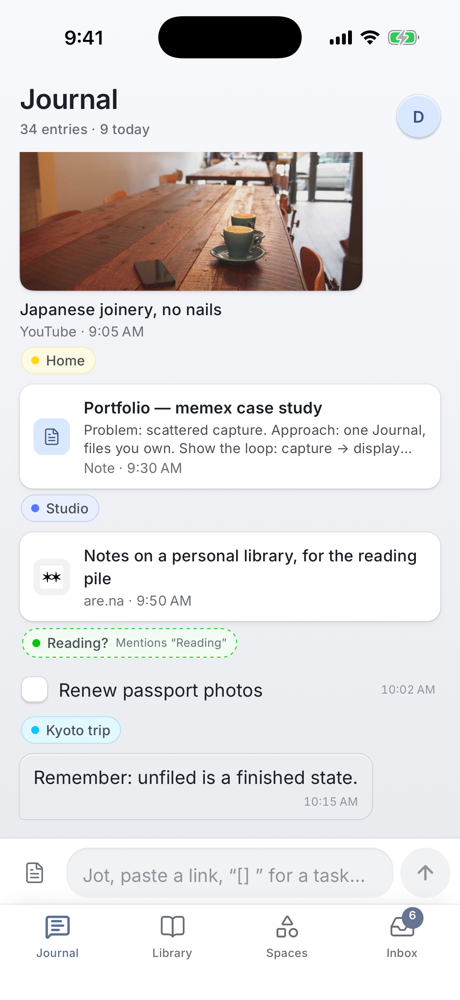
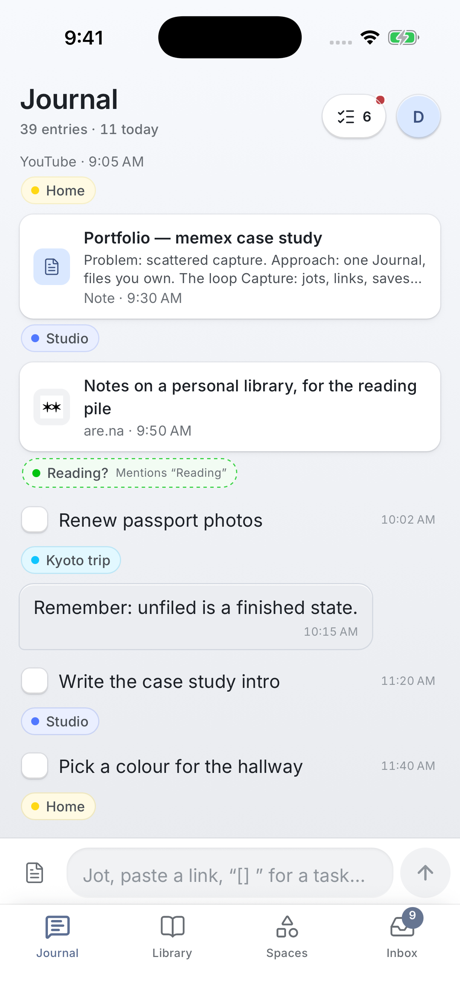
Docs: the phone's Spaces, Inbox, Tasks and note view (M6-C), screenshots
docs/mobile.md: what each new screen does, deep links, what's reused from
core, the new date picker dependency, known gaps; light and dark
screenshots on demo data. ROADMAP Phase 6, TODO, CLAUDE.md.

diff --git a/docs/mobile.md b/docs/mobile.md
@@ -2,12 +2,16 @@
 
 The native app lives in `apps/mobile`: React Native on **Expo SDK 58** with Expo Router. ROADMAP Phase 6, v1 on TestFlight. Following decision 20, it reads data straight from Supabase through `@memex/core`, using the same Repository and adapter as the web app. RLS limits every query to the signed-in user.
 
-**Status (2026-11-01, threads M6-A and M6-B):** the app shell has four tabs (Journal, Library, Spaces, Inbox) and a sign-in screen, with email + password and GitHub OAuth. Light and dark follow the system.
+**Status (2026-11-01, threads M6-A, M6-B and M6-C):** four tabs (Journal, Library, Spaces, Inbox) plus pushed screens for Tasks, a space's board, a note and a link, and a sign-in screen with email + password and GitHub OAuth. Light and dark follow the system. Next: the iOS share extension, then TestFlight.
 
 - **Journal** (M6-B): the feed plus a composer above the tab bar with the web's syntax, from core: plain text saves a jot, a lone URL saves a link, `[] ` starts a task, `@Space` files it, and the page button makes a note (phones have no ⌘↵). Saves appear at once and roll back if they fail. Tick tasks in place, tap a link for its detail, press a dashed suggestion chip to file an entry, long-press anything for its menu (Open, Mark done, File in…, Delete). Deleting and filing show a toast with Undo. Pull to refresh.
 - **Link detail** (M6-B): picture, title, description, source and date; spaces as toggles; Open in Safari (in-app browser), Share, Delete with Undo.
 - **Library** (M6-B): every saved link as a two-column masonry, newest saved first, with source chips, search and infinite scroll.
-- Spaces and Inbox are still placeholders that show real counts. The share extension, Spaces/Inbox and TestFlight come next.
+- **Spaces** (M6-C): every space in its own hue with how many items it holds, its open tasks, when something last landed there and its three newest entries; Tasks across all spaces sits on top. Pull to refresh.
+- **A space's board** (M6-C, decision 14B in phone form): the space's pinned sites, then its own Journal (jots written there and everything filed there, newest at the bottom), with the composer filing into the space unless the text names another `@Space`. The header's Tasks pill opens Tasks filtered to the space.
+- **Inbox** (M6-C): agents' proposals first (who, what, the item, the reason, and the change as a line diff or before → after; **Approve** applies it, **Reject** keeps the record), then filing suggestions (the item, the likely space with its reason, **File in …** and **Not now**, both with Undo). The tab's badge counts both, like the web's Inbox button.
+- **Tasks** (M6-C, `docs/tasks-view.md` on the phone): reached from the Tasks pill in the Journal's header (open count, red dot when something is overdue), the top of the Spaces tab and a space's header. Grouped by space or by due date, a space filter (Every space · each space · Unfiled, with open counts), an add field on the composer's syntax, tick with Undo (the row holds a beat checked, then moves to Done), due dates from the chip (Today, Tomorrow, Next week, Pick a date… with the system calendar, No due date), long-press for Mark done, Due date…, Rename…, Spaces… and Delete (with Undo), and a folded Done list, 50 at a time.
+- **Notes** (M6-C): tap a note in any feed. Its title, date, spaces and markdown rendered on paper (headings, lists, task boxes, quotes, code, links that open in Safari). **Edit** shows the stored markdown as plain text with its title; Save writes through the Repository. If the note changed elsewhere while you edited, Save asks before overwriting; Back and Cancel ask before dropping unsaved changes.
 
 | | Light | Dark |
 | --- | --- | --- |
@@ -18,10 +22,14 @@ The native app lives in `apps/mobile`: React Native on **Expo SDK 58** with Expo
 | After sending a jot, a link `@Studio` and a task `@Kyoto trip` | ![](mobile/journal-sent-light.png) | ![](mobile/journal-sent-dark.png) |
 | Link detail | ![](mobile/link-light.png) | ![](mobile/link-dark.png) |
 | Library | ![](mobile/library-light.png) | ![](mobile/library-dark.png) |
-| Spaces (placeholder) | ![](mobile/spaces-light.png) | ![](mobile/spaces-dark.png) |
-| Inbox (placeholder) | ![](mobile/inbox-light.png) | ![](mobile/inbox-dark.png) |
+| Spaces | ![](mobile/spaces-light.png) | ![](mobile/spaces-dark.png) |
+| A space's board (Reading: pinned sites, its Journal, the composer filing there) | ![](mobile/space-light.png) | ![](mobile/space-dark.png) |
+| Inbox: agents' proposals (filing, an append with its diff), then filing suggestions | ![](mobile/inbox-light.png) | ![](mobile/inbox-dark.png) |
+| Tasks by space | ![](mobile/tasks-light.png) | ![](mobile/tasks-dark.png) |
+| Tasks by due date | ![](mobile/tasks-date-light.png) | ![](mobile/tasks-date-dark.png) |
+| A note | ![](mobile/note-light.png) | ![](mobile/note-dark.png) |
 
-The signed-in screenshots use the dev-only demo data, not real data. They come from an iPhone 17 Pro simulator on iOS 26.4 running Expo Go 58.0.7. The simulator couldn't be tapped from scripts, so the composer states were reached with `?draft=` deep links and the saves with the dev-only `&send=1` (below); taps are covered by component tests instead.
+The signed-in screenshots use the dev-only demo data, not real data. They come from an iPhone 17 Pro simulator on iOS 26.4 running Expo Go 58.0.7. The simulator couldn't be tapped from scripts, so the composer states were reached with `?draft=` deep links and the saves with the dev-only `&send=1` (below), and the M6-C screens with deep links (`/spaces`, `/space/reading`, `/inbox`, `/tasks`, `/tasks?group=date`, `/note/n2`). Taps (approve, reject, file, not now, tick, Undo, due dates, editing a note) are covered by component tests instead.
 
 ## Run it
 
@@ -35,7 +43,7 @@ npm run ios               # starts Metro and opens the app in Expo Go on the sim
 ```
 
 - **Demo data:** `npm run fixtures` (then press `i`) runs on built-in invented data with a signed-in demo user. Use `EXPO_PUBLIC_MEMEX_FIXTURES=signed-out npx expo start` to start at the sign-in screen instead, where any credentials sign in. Demo mode is dev-only. The flag is ignored when `__DEV__` is false, and `npm run check:release` (also in CI) fails if any fixture code reaches a release bundle. Demo data is core's in-memory Repository (`@memex/core/memory`) over the app's demo rows, so writes work and vanish when the app reloads; nothing reaches Supabase, and link metadata isn't scraped.
-- **Deep links:** `memex:///?draft=<text>` (in Expo Go, `exp://127.0.0.1:8081/--/?draft=…`) opens the Journal with text in the composer; nothing is saved until you send. Only in a dev build on demo data, `&send=1` also sends it. That's how the simulator screenshots were made, and it can't write anywhere else. `…/--/link/<id>` opens link detail and `…/--/library` the Library.
+- **Deep links:** `memex:///?draft=<text>` (in Expo Go, `exp://127.0.0.1:8081/--/?draft=…`) opens the Journal with text in the composer; nothing is saved until you send. Only in a dev build on demo data, `&send=1` also sends it. That's how the simulator screenshots were made, and it can't write anywhere else. `…/--/link/<id>` opens link detail, `…/--/library` the Library, `…/--/spaces` and `…/--/inbox` those tabs, `…/--/space/<id>` a space's board, `…/--/note/<id>` a note, and `…/--/tasks` Tasks (with `?group=date`, `?space=<id>|unfiled` and `?done=1`; the screen keeps these in its URL as you change them).
 - **Link metadata:** set `EXPO_PUBLIC_SCRAPER_URL` (the web's `VITE_SCRAPER_URL`) to fill titles, descriptions and pictures when a link is saved from the composer. Without it, links save with what the URL says, and the favicon comes from Google's favicon service, as on the web.
 - **On your phone:** install Expo Go, run `npx expo start`, scan the QR code.
 - **Checks:** `npm run check` (typecheck, lint, then `npm test`: Vitest for the plain-TS `*.test.ts`, Jest with React Native Testing Library for the component `*.test.tsx`) and `npm run check:release` (release iOS bundle, no fixture code). CI runs both in the `mobile` job of `.github/workflows/ci.yml`, next to the web job.
@@ -53,17 +61,26 @@ apps/mobile/
     auth/callback.tsx      memex://auth/callback (cold-start OAuth redirect)
     (tabs)/                index (Journal + composer), library (masonry), spaces, inbox
     link/[id].tsx          link detail
+    note/[id].tsx          note view + plain-markdown editing
+    space/[id].tsx         a space's board (scoped Journal + composer)
+    tasks.tsx              Tasks
   src/auth/                encryptedStorage (session at rest), oauth (redirect parsing), signInWithGitHub, SessionProvider
   src/data/                config, client (captured_client), keys (React Query), repository, DataProvider,
-                           actions (the writes), deleteQueue (Undo), journal (core model → feed), useJournal,
-                           library + useLibrary, scraper
+                           actions (the writes), deleteQueue (Undo), journal (core model → feed, space summaries
+                           and boards), useJournal, library + useLibrary, scraper, tasks (core's Tasks view),
+                           inbox + useInbox (proposals), dismissals (Not now, on this phone)
   src/data/fixtures/       DEV-ONLY demo rows + the memory Repository over them
   src/journal/             Composer + composerModel, the feed and its entry renderers, entryMenu, useEntryActions
   src/library/             LibraryCard
-  src/screens/             screen tests (Library, link detail)
+  src/spaces/              SpaceCard, PinnedSites
+  src/inbox/               ProposalCard, SuggestionCard
+  src/tasks/               TaskRow, TaskAdd, TasksButton, DueDateSheet, dueMenu, taskMenu, useTaskActions
+  src/notes/               markdown (block + inline parser, tested), MarkdownView
+  src/screens/             screen tests (Library, link detail, Spaces, a space, Inbox, Tasks, notes)
   src/testing/             renderWithData: the app's providers over the demo repository
   src/theme/               palette (core tokens → hex) and theme (type roles, paper / object depth)
-  src/ui/                  Text, Paper, Button (objects), TextField, FilterChip, Toast, Canvas, Wordmark, chips, placeholders
+  src/ui/                  Text, Paper, Button (objects), RoundButton, Segmented, TextField, FilterChip, Toast, Canvas,
+                           ScreenHeader / StackHeader, Wordmark, chips, placeholders
 ```
 
 **A separate npm project, not a workspace member.** Expo SDK 58 pins React 19.3 and React Native 0.88. The web app is on React 19.1, and joining the root workspace would hoist two Reacts into one tree. So `apps/mobile` has its own `package-lock.json`, like `api/` and `extension/`, and depends on core with `"@memex/core": "file:../../packages/core"`. The web's install, lockfile, build and deploy are untouched; root ESLint ignores `apps/`. Two settings make core resolve its own imports from this app:
@@ -79,7 +96,15 @@ apps/mobile/
 - **Links go through core's capture service** (`createCaptureService` over the new `createRepositoryCaptureStore`, `@memex/core/capture`), so a phone save dedupes exactly like the extension's: same platform id, the same post under another URL, or the same normalized URL. A duplicate isn't saved twice; the toast says “Already saved” and the requested spaces are still applied. New links get `source` / `source_id` / `url_key` from `identifySource`, `captured_by: 'app'` and `captured_client: 'memex-ios/<app version>'`. The web's own composer still saves links without these provenance fields; the phone follows the capture rules instead, since the schema already allows `app`.
 - **Delete with Undo:** `deleteQueue.ts` hides the entry at once and deletes it after 6 seconds unless Undo is pressed. If the delete fails, the entry comes back with an error toast. Pending deletes run straight away when the app goes to the background.
 - **Filing:** suggestion chips, the long-press “File in…” menu and the link detail toggles all go through `actions.file` / `unfile`, with Undo on the toast.
+- **Tasks (M6-C):** `setTaskDone`, `setTaskDue` and `renameTask` patch the cached row and put back only the changed fields if the write fails. Ticking moves `updated_at` too, so the task sorts first in Done (core's `compareDoneTasks`) before the refetch.
+- **Notes (M6-C):** `updateNote` saves the title (an empty one is stored as null, as on the web) and the markdown with `notes.update`, optimistic with rollback.
+- **Agent proposals (M6-C):** `decideProposal` calls core's `applyProposal` / `rejectProposal` (`@memex/core/agent`), the web Inbox's path. The proposal leaves the list at once and comes back if that fails; approving refetches the item it changed. Proposals refetch every minute while the app is open, like the web's.
+- **Not now (M6-C):** dismissing a filing suggestion stores the entry id on the phone (`src/data/dismissals.ts`, AsyncStorage, pruned after 90 days and capped at 500). The Journal model wraps core's filer so a dismissed entry gets no suggestion anywhere: the Inbox, the feed's dashed chip, link detail. Nothing about the item changes, and nothing syncs (see Known gaps).
 - **Library:** `src/data/library.ts` runs core's `linkToItem`, `matchesLibraryFilters` (source), `itemMatchesSearch` and `sortItems` (newest saved), the same functions as the web Library. `useLibrary` hands FlashList one page of 24 at a time.
+
+**Reused from core (M6-C).** Spaces: `entriesInSpace` + `toParts` for a space's feed, `spaceBoard` for its counts, tasks and pinned sites, `withDefaultSpace` for its composer. Tasks: `taskSpaceMap`, `filterTasksBySpace`, `splitTasks`, `groupTasks`, `countOpenTasksBySpace`, `dueBucket`, `dueLabel`, `isOverdue`, `daysUntilDue`, `dueShortcuts`, `parseTaskGrouping`, `parseTaskInput`, `toDayKey` / `fromDayKey`. Inbox: `inboxOf` + `createFiler`, `proposalFields`, `changedSinceProposed`, `compactDiff`, `applyProposal`, `rejectProposal`. New in the app: the phone's one-beat hold before a ticked task moves to Done (`toTasksView`), the dismissals store, `proposalTarget` (the same eight lines as the web's `components/journal/proposalTarget.ts`; it can move to core once M3-B settles), and a small markdown parser for reading notes (the web uses react-markdown). Core wasn't changed in this thread.
+
+**One new dependency (M6-C):** `@react-native-community/datetimepicker` (the SDK 58 version, added with `npx expo install`, config plugin in `app.json`) for Tasks' Pick a date… sheet, the system's inline calendar. It ships in Expo Go; EAS builds include it like any other native module.
 
 **Feel.** The composer and its chips are objects: they settle when pressed and tick with haptics. Send gets a medium impact and success or error haptics when the save resolves. The feed, link detail and Library cards are paper: they tint when pressed but never move. The suggestion chip is dashed and carries its reason (web: `.jr-chip.is-suggested`). Toasts are announced to VoiceOver. Every entry's menu is also exposed as VoiceOver actions, and every control has a text label.
 
@@ -122,9 +147,11 @@ The next thread's commands, once 1–8 are in place: `npx eas-cli init` → `eas
 
 ## Known gaps
 
-- **Notes:** you can write a note, but you can't open or edit one on the phone yet (ROADMAP: a DOM component around the web's `MarkdownEditor`). Tapping a note does nothing; long-press still offers its menu.
+- **Notes:** editing is plain text (the stored markdown in a text field), not the web's live-preview editor (ROADMAP: a DOM component around `MarkdownEditor`). Task boxes in a note show their state but don't tick from the reading view. Inter's italic face isn't loaded, so `*italic*` reads upright.
+- **Not now is per phone:** a dismissed filing suggestion is remembered on this device only (no schema change in v1), and the web still suggests it. A shared “dismissed” field would need a home in the vault format.
+- **Rename** in the Tasks menu uses the iOS text prompt (`Alert.prompt`); Android would need its own sheet.
 - Jots can't be turned into notes or tasks yet (the web has both).
-- Spaces and Inbox are placeholders. The Inbox's count is real, and its suggestions show as chips in the feed.
+- A space's board on the phone is its Journal plus pinned sites; the web's board column (open tasks, saves, notes) isn't a separate section here. Tasks filtered to the space is one press away instead. Pinning and taking items out of a space happen on the web.
 - The canvas swatch is fixed to the default until a Settings screen exists. The web keeps its choice in localStorage, so it can't sync without a stored setting.
-- No end-to-end tests: Vitest covers the plain-TS parts (writes, Undo queue, composer model, Library model, encrypted storage, OAuth parsing, palette, fixtures) and Jest + React Native Testing Library covers the screens (composer, tick, delete and Undo, filing, link detail, Library). Maestro flows on a simulator that can be tapped would be the next step.
+- No end-to-end tests: Vitest covers the plain-TS parts (writes, Undo queue, composer model, Library model, encrypted storage, OAuth parsing, palette, fixtures) and Jest + React Native Testing Library covers the screens (composer, tick, delete and Undo, filing, link detail, Library; M6-C: Spaces, a space's board and its composer, Inbox approve / reject / file / not now with Undo, Tasks grouping, filter, add, tick with hold and Undo, due dates from the menu and the calendar, Done, the note view, editing, the overwrite and discard prompts). Maestro flows on a simulator that can be tapped would be the next step.
 - `npx expo start` may rewrite `tsconfig.json`'s `include`; that's expected and harmless.

diff --git a/TODO.md b/TODO.md
@@ -22,7 +22,8 @@ v1 stays on Supabase + Cloudflare Workers. Details and phase mapping: `ROADMAP.m
 - [ ] **React Native (Expo) app on TestFlight** (Phase 6, on `packages/core`; talks to Supabase through `@memex/core/supabase` with SecureStore session storage, decision 20)
   - [x] Shell ✓ 2026-11-01 (M6-A): `apps/mobile` on Expo SDK 58: tabs (Journal, Library, Spaces, Inbox), sign-in (email + GitHub PKCE), read-only Journal feed with pull to refresh, light/dark, CI job. Run/architecture/screenshots: `docs/mobile.md`
   - [x] Journal composer, interactions, link detail, Library ✓ 2026-11-01 (M6-B): composer on core's syntax (jot, link, `[]` task, `@Space`, note button) with optimistic saves, the @ picker and the filer's suggestion; tick, delete with Undo, filing chips, long-press menu; link detail (open in Safari, spaces, share, delete); Library masonry with source chips, search, infinite scroll. Links save through core's capture service (`captured_by: 'app'`). Jest + RNTL component tests. `docs/mobile.md`
-  - [ ] Next (M6): Spaces and Inbox tabs, the iOS share extension, a note view, then TestFlight
+  - [x] Spaces, Inbox, Tasks, notes ✓ 2026-11-01 (M6-C): Spaces tab (counts, newest entries) and a space's board (pinned sites, scoped Journal, composer files there); Inbox with agents' proposals (approve / reject via core) and filing suggestions (File / Not now, with Undo; badge counts both); Tasks screen from the Journal header (by space or due date, filter, add, tick with Undo, due dates with the system calendar, Done); note view with plain-markdown editing. `docs/mobile.md`
+  - [ ] Next (M6): the iOS share extension, then TestFlight
   - [x] `https://` URLs on TLDs outside core's allowlist (e.g. `are.na`) save as links ✓ 2026-11-01 (Ryan's call): any lone input with an explicit `http://` or `https://` is a link on web and phone (`normalizeUrlInput`); bare `word.word` text still needs an allowlisted TLD
   - [ ] Ryan: add `memex://auth/callback` to Supabase Auth → Redirect URLs, and work through the TestFlight checklist in `docs/mobile.md` (Apple Developer Program, App Store Connect record + bundle id, API key, Expo account)
   - [ ] Next: composer + writes, filing, Library grid, EAS build → TestFlight

diff --git a/CLAUDE.md b/CLAUDE.md
@@ -39,7 +39,7 @@ memex holds Ryan's real data in one production Supabase project; there is no sta
 - `api/README.md` — memex-api Cloudflare Worker: token-authenticated capture API for the extension (routes, deploy, security model). Tokens are managed in Settings → Access tokens (`api_tokens` migration).
 - `docs/mcp.md` — the hosted MCP server at memex-api `/mcp` (v1 headline): agent tokens (Settings → Agent tokens, or `scripts/agent-token.mjs`), client config (Grok via xAI API, Claude Code, Cursor), the read and write tools, Inbox proposals, idempotency, the security model and audit log. `docs/mcp-auth.md` — bearer now, the OAuth design for later (M3-C).
 - `packages/core/README.md` — `@memex/core`: what's shared across clients, its public API, the `Repository` interface and the Supabase adapter (web + Expo setup).
-- `docs/mobile.md` — the iPhone app in `apps/mobile` (Expo SDK 58, Expo Router): how to run it (demo data with `npm run fixtures`), its architecture (standalone npm project on `@memex/core`, encrypted session storage, PKCE GitHub sign-in), the Supabase redirect URL, screenshots, and the TestFlight checklist.
+- `docs/mobile.md` — the iPhone app in `apps/mobile` (Expo SDK 58, Expo Router; Journal, Library, Spaces, Inbox tabs plus Tasks, space boards, notes and link detail): how to run it (demo data with `npm run fixtures`), its architecture (standalone npm project on `@memex/core`, encrypted session storage, PKCE GitHub sign-in), the Supabase redirect URL, screenshots, and the TestFlight checklist.
 - `extension/README.md` — memex capture browser extension (MV3, WXT + TypeScript): toolbar/⌘⇧S/context-menu save, and automatic capture of X bookmarks and Pinterest saves; install + configure. Its roadmap and open items live in `docs/browser-extension-plan.md`.
 
 ## Development Commands

diff --git a/ROADMAP.md b/ROADMAP.md
@@ -254,7 +254,8 @@ Re-sync only needs `/api/capture`, so 5b–5d can start after Phase 3, before th
 - [x] Journal feed + composer (keyboard-avoiding, chat-style list), entry cards per type — *2026-11-01 (M6-B): composer on core's syntax, tick / delete with Undo / filing in the feed*
 - [ ] Share extension (iOS) / share target (Android) → entry, optional space
 - [ ] Library: spaces row + masonry grid; link detail; open in browser — *2026-11-01 (M6-B): masonry of links with source chips and search, link detail, open in the in-app Safari; the spaces row is still to do*
-- [ ] Note view/edit via a DOM component wrapping the web `MarkdownEditor`
+- [ ] Note view/edit via a DOM component wrapping the web `MarkdownEditor` — *2026-11-01 (M6-C): note view (rendered markdown) and plain-text markdown editing; the rich editor port is still to do*
+- [x] Spaces, Inbox and Tasks on the phone — *2026-11-01 (M6-C): Spaces tab + a space's board (scoped Journal, pinned sites), Inbox (agent proposals, filing suggestions with File / Not now), Tasks on core's model; `docs/mobile.md`*
 - [ ] Offline + sync via core (**v2**, needs Phase 4); TestFlight (**v1**)
 
 ### Phase 7 — Agents (MCP) · **v1 (7a–7d), v2 (7e)**
